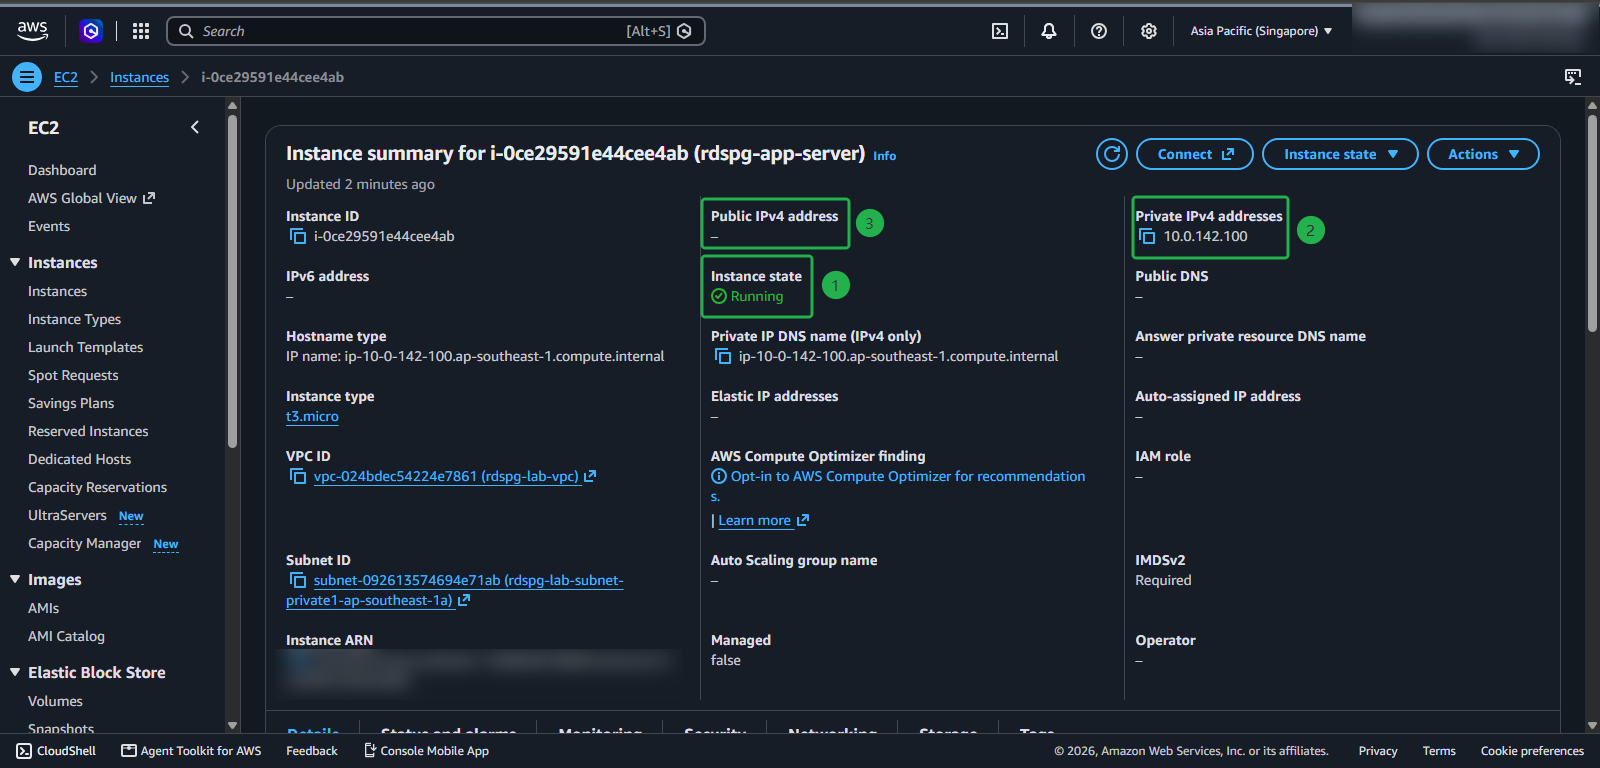
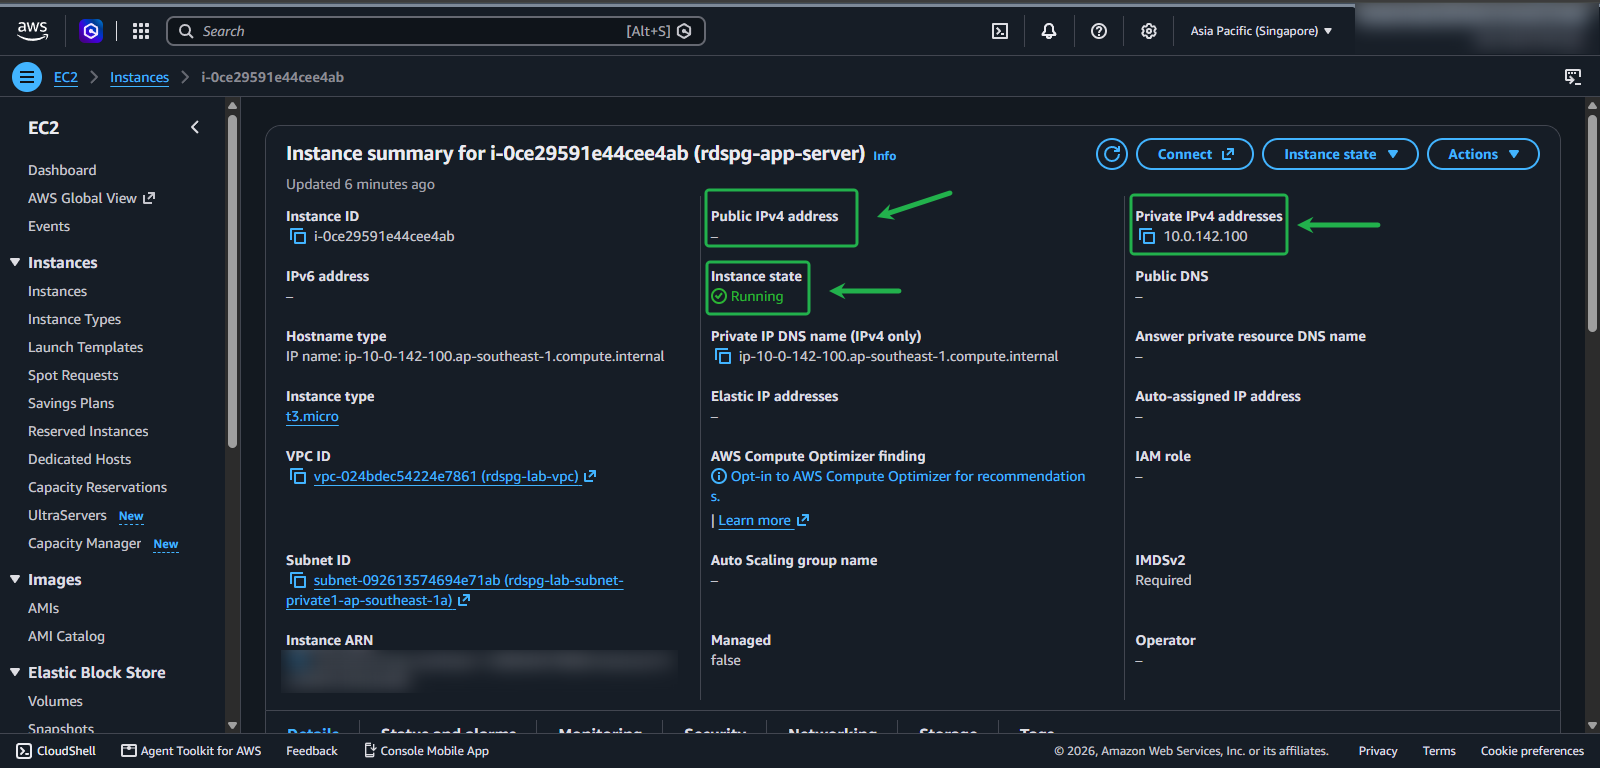
Update verify screenshots in 2.5 and 2.6 to frames only

Changed region(s): [[0.4375, 0.2188, 0.5938, 0.4375], [0.6875, 0.25, 0.875, 0.3438]]

diff --git a/content/2-preparation/2-5-createec2appsv/_index.vi.md b/content/2-preparation/2-5-createec2appsv/_index.vi.md
@@ -71,8 +71,8 @@ Subnet hiển thị **4091** địa chỉ IP khả dụng. Subnet `/20` có 4.09
 #### Kiểm tra instance
 
 7. Mở instance `rdspg-app-server` và kiểm tra:
-    - (1) **Instance state**: **Running**
-    - (2) **Private IPv4 address**: một địa chỉ thuộc `10.0.128.0/20`
-    - (3) **Public IPv4 address**: trống
+    - **Instance state**: **Running**
+    - **Private IPv4 address**: một địa chỉ thuộc `10.0.128.0/20`
+    - **Public IPv4 address**: trống
 
     ![Instance summary](/images/2-preparation/2.5/7.png)

diff --git a/content/2-preparation/2-6-createec2bastionhost/_index.md b/content/2-preparation/2-6-createec2bastionhost/_index.md
@@ -59,9 +59,9 @@ The bastion host needs a public IP address so that you can connect to it over SS
 #### Verify the instance
 
 6. Open the instance `rdspg-bastion-host` and check:
-    - (1) **Instance state**: **Running**
-    - (2) **Public IPv4 address**: has a value
-    - (3) **Private IPv4 address**: an address in `10.0.0.0/20`
+    - **Instance state**: **Running**
+    - **Public IPv4 address**: has a value
+    - **Private IPv4 address**: an address in `10.0.0.0/20`
 
     ![Instance summary](/images/2-preparation/2.6/6.png)
 

diff --git a/content/2-preparation/2-5-createec2appsv/_index.md b/content/2-preparation/2-5-createec2appsv/_index.md
@@ -71,8 +71,8 @@ The subnet shows **4091** available IP addresses. A `/20` subnet has 4,096 addre
 #### Verify the instance
 
 7. Open the instance `rdspg-app-server` and check:
-    - (1) **Instance state**: **Running**
-    - (2) **Private IPv4 address**: an address in `10.0.128.0/20`
-    - (3) **Public IPv4 address**: empty
+    - **Instance state**: **Running**
+    - **Private IPv4 address**: an address in `10.0.128.0/20`
+    - **Public IPv4 address**: empty
 
     ![Instance summary](/images/2-preparation/2.5/7.png)
